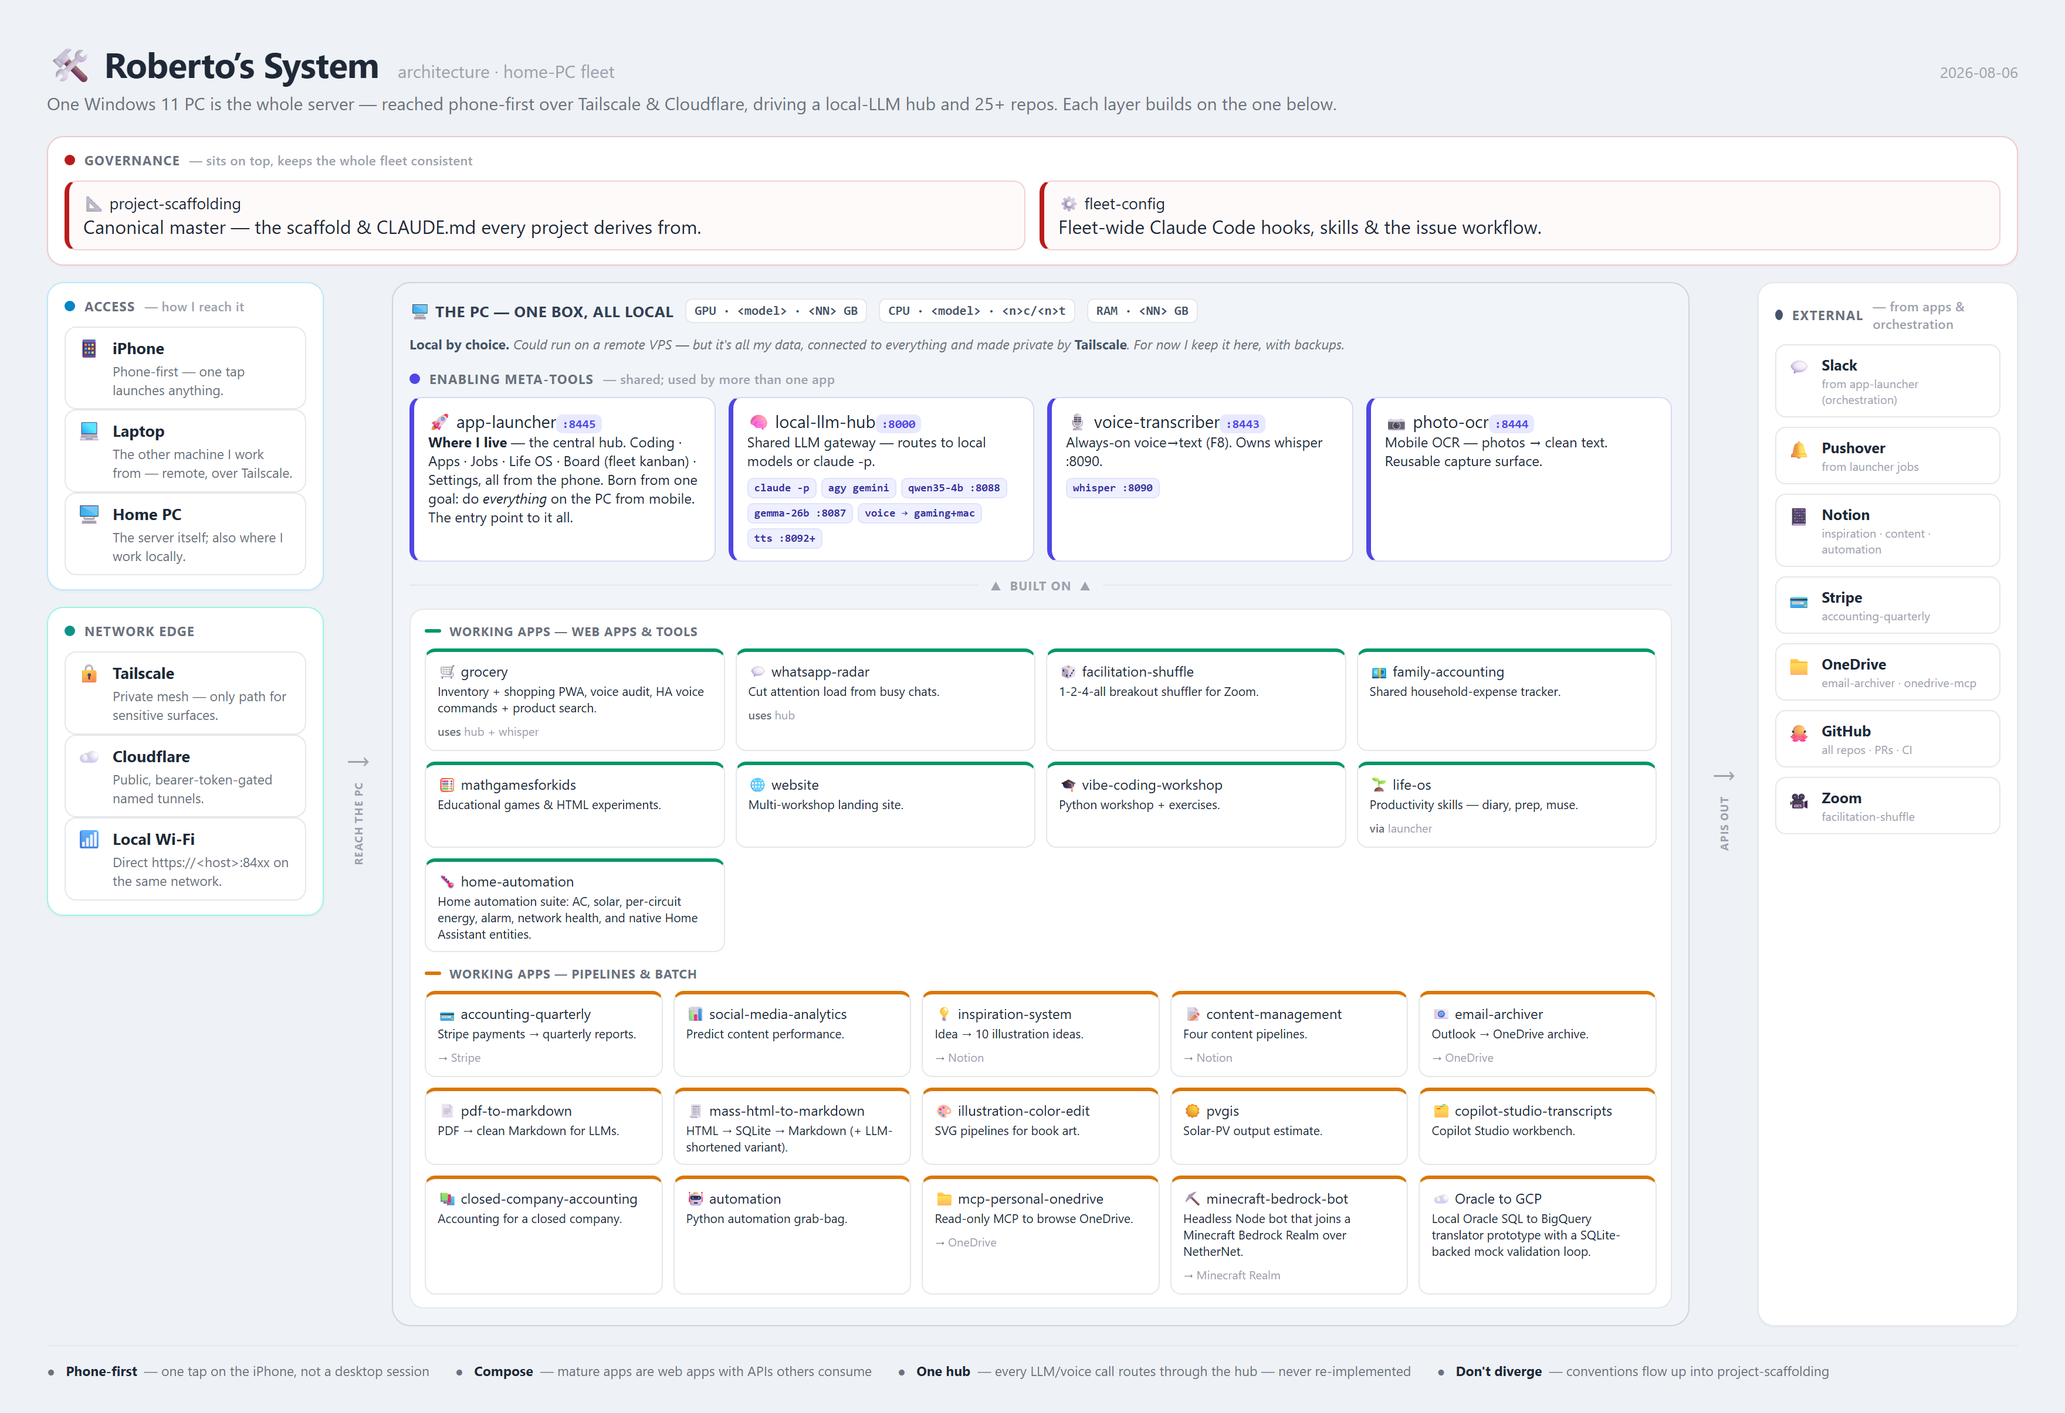
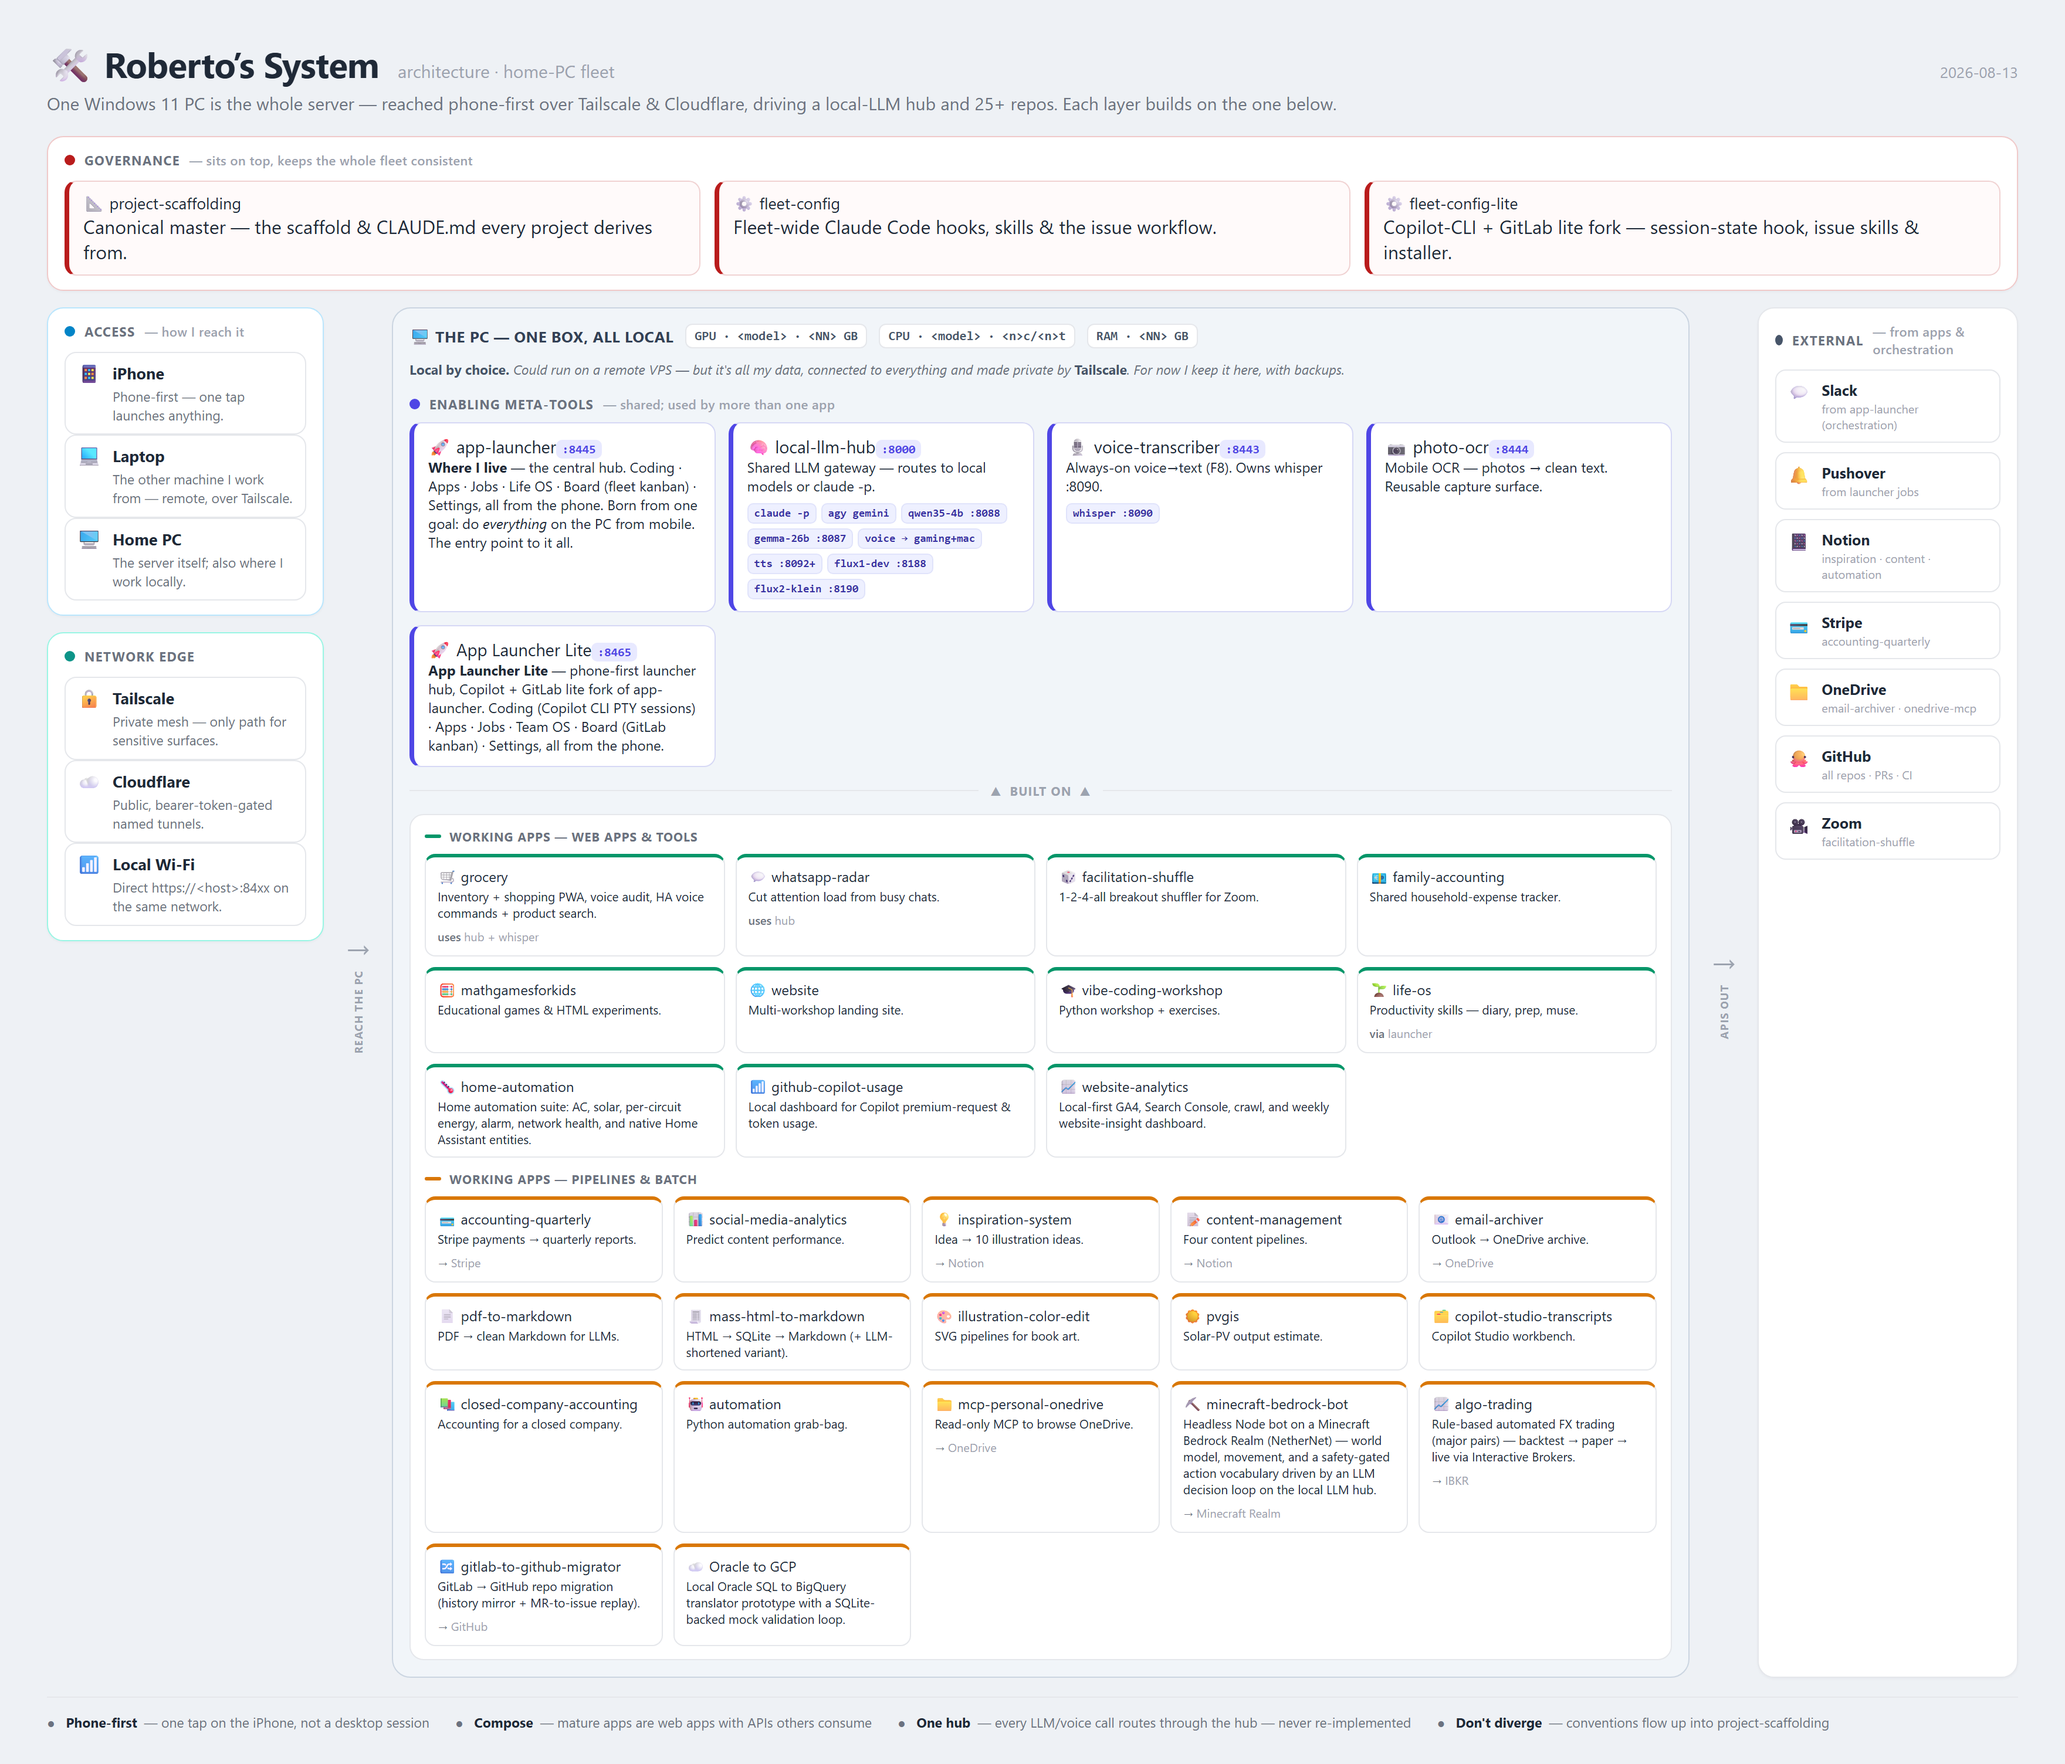
docs: refresh system map (2026-08-14)

diff --git a/architecture/fleet.data.js b/architecture/fleet.data.js
@@ -29,7 +29,7 @@ window.FLEET = {
   "compute": {"gpu": "GPU · &lt;model&gt; · &lt;NN&gt; GB", "cpu": "CPU · &lt;model&gt; · &lt;n&gt;c/&lt;n&gt;t", "ram": "RAM · &lt;NN&gt; GB"},
   "enabling": [
     {"ic": "🚀", "nm": "app-launcher", "port": ":8445", "ds": "<b>Where I live</b> — the central hub. Coding · Apps · Jobs · Life OS · Board (fleet kanban) · Settings, all from the phone. Born from one goal: do <i>everything</i> on the PC from mobile. The entry point to it all."},
-    {"ic": "🧠", "nm": "local-llm-hub", "port": ":8000", "ds": "Shared LLM gateway — routes to local models or claude -p.", "chips": ["claude -p", "agy gemini", "qwen35-4b :8088", "gemma-26b :8087", "voice → gaming+mac", "tts :8092+"]},
+    {"ic": "🧠", "nm": "local-llm-hub", "port": ":8000", "ds": "Shared LLM gateway — routes to local models or claude -p.", "chips": ["claude -p", "agy gemini", "qwen35-4b :8088", "gemma-26b :8087", "voice → gaming+mac", "tts :8092+", "flux1-dev :8188", "flux2-klein :8190"]},
     {"ic": "🎙", "nm": "voice-transcriber", "port": ":8443", "ds": "Always-on voice→text (F8). Owns whisper :8090.", "chips": ["whisper :8090"]},
     {"ic": "📷", "nm": "photo-ocr", "port": ":8444", "ds": "Mobile OCR — photos → clean text. Reusable capture surface."},
     {"ic": "🚀", "nm": "App Launcher Lite", "repo": "app-launcher-lite", "port": ":8465", "ds": "<b>App Launcher Lite</b> — phone-first launcher hub, Copilot + GitLab lite fork of app-launcher. Coding (Copilot CLI PTY sessions) · Apps · Jobs · Team OS · Board (GitLab kanban) · Settings, all from the phone."}
